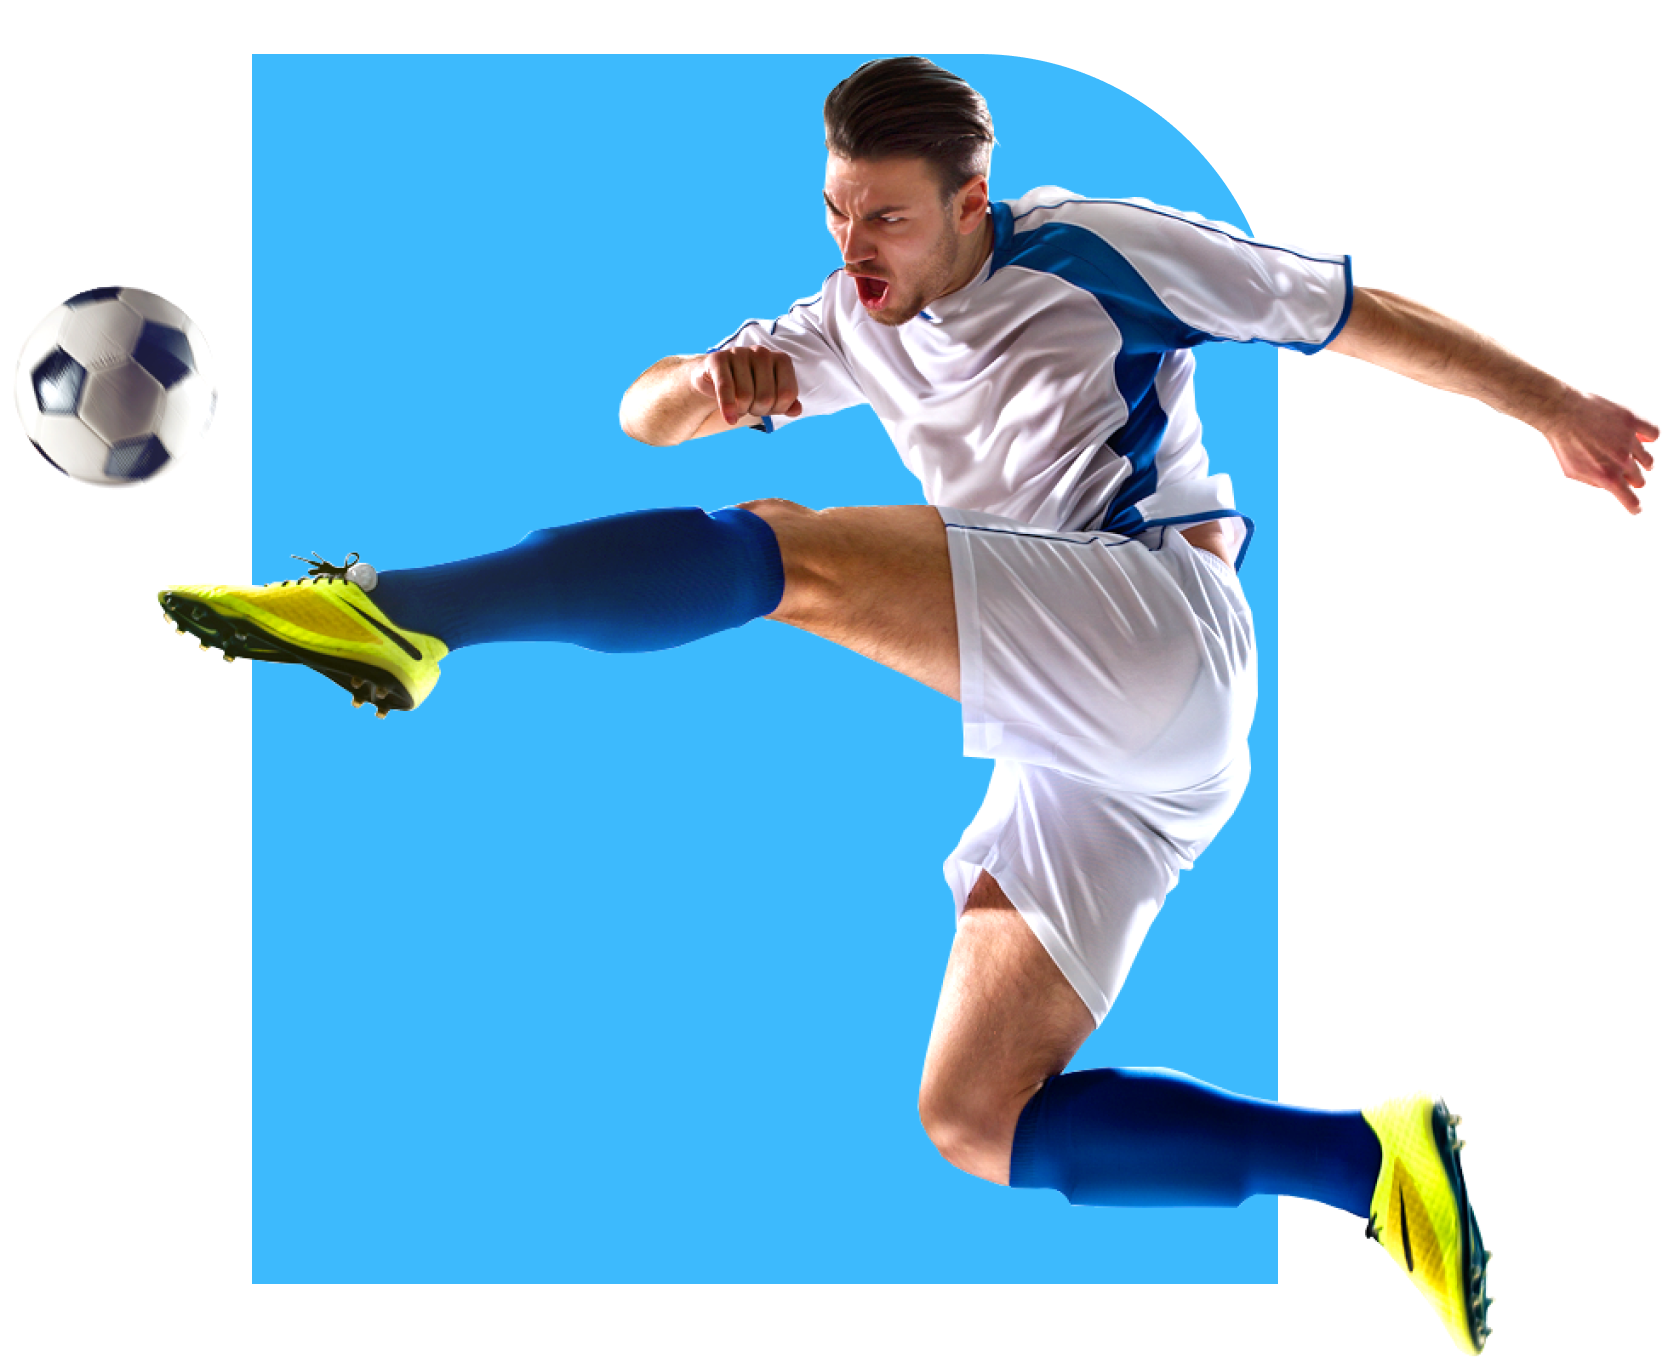
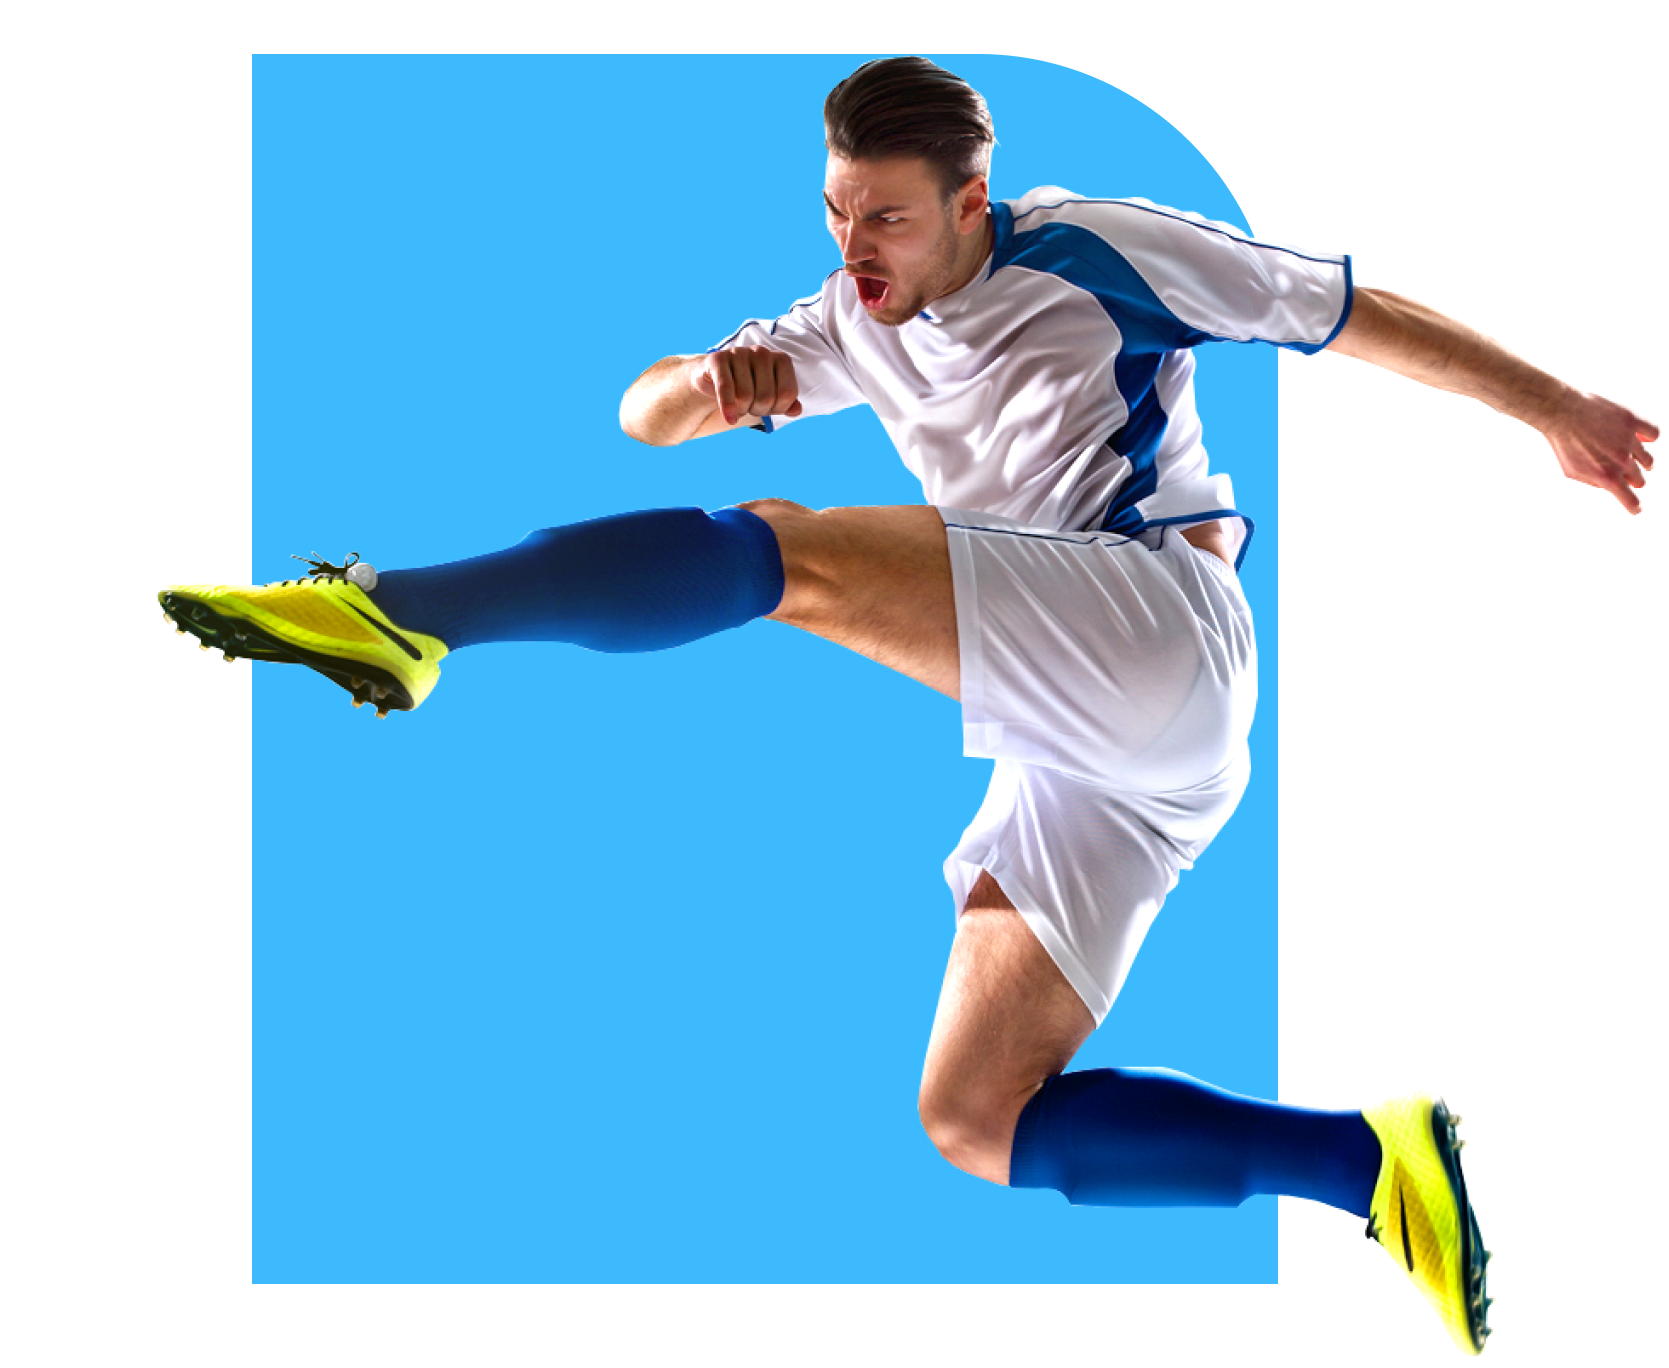
playe section

Changed region(s): [[0.0, 0.1842, 0.1246, 0.3684]]

diff --git a/index.html b/index.html
@@ -54,14 +54,199 @@
 
         <section id="banner">
                 <div class="banner-content">
-
-                </div>
+                    <h1 class="b-h1">
+                        Conmebol <br>
+                        Copa America <br>
+                        2021
+                    </h1>
+                    <button class="all-btn watch-btn">
+                        <a href="#">Watch Live <i class="fas fa-arrow-right"> </i> </a>
+                    </button>
+                </div> 
+                <div class="main-ani">
                 <div class="banner-img">
-                    
+                    <img src="images/banner.png" alt="">
                 </div>
+                
+                <div class="a-football">
+                    <img class="football" src="images/football.png" alt="">
+                </div>
+            </div>
         </section>
-
         <!-- Banner Section End -->
+
+        <!-- Players Gallery Sections -->
+        <section id="players">
+                <article class="player">
+                    <div class="player-img">
+                        <img src="images/players/player-1.png" alt="">
+                    </div>
+                    <div class="player-info">
+                        <h1 class="player-title">
+                            Neymar Jr
+                        </h1>
+                        <p class="player-deatil">
+                            Lorem ipsum dolor sit amet, consectetur adipiscing elit. Lacus, fermentum amet faucibus sed id nisi lectus at.
+                        </p>
+                    </div>
+                </article>
+
+                <article class="player">
+                    <div class="player-img">
+                        <img src="images/players/player-2.png" alt="">
+                    </div>
+                    <div class="player-info">
+                        <h1 class="player-title">
+                            Neymar Jr
+                        </h1>
+                        <p class="player-deatil">
+                            Lorem ipsum dolor sit amet, consectetur adipiscing elit. Lacus, fermentum amet faucibus sed id nisi lectus at.
+                        </p>
+                    </div>
+                </article>
+
+                <article class="player">
+                    <div class="player-img">
+                        <img src="images/players/player-3.png" alt="">
+                    </div>
+                    <div class="player-info">
+                        <h1 class="player-title">
+                            Neymar Jr
+                        </h1>
+                        <p class="player-deatil">
+                            Lorem ipsum dolor sit amet, consectetur adipiscing elit. Lacus, fermentum amet faucibus sed id nisi lectus at.
+                        </p>
+                    </div>
+                </article>
+
+                <article class="player">
+                    <div class="player-img">
+                        <img src="images/players/player-4.png" alt="">
+                    </div>
+                    <div class="player-info">
+                        <h1 class="player-title">
+                            Neymar Jr
+                        </h1>
+                        <p class="player-deatil">
+                            Lorem ipsum dolor sit amet, consectetur adipiscing elit. Lacus, fermentum amet faucibus sed id nisi lectus at.
+                        </p>
+                    </div>
+                </article>
+
+                <article class="player">
+                    <div class="player-img">
+                        <img src="images/players/player-5.png" alt="">
+                    </div>
+                    <div class="player-info">
+                        <h1 class="player-title">
+                            Neymar Jr
+                        </h1>
+                        <p class="player-deatil">
+                            Lorem ipsum dolor sit amet, consectetur adipiscing elit. Lacus, fermentum amet faucibus sed id nisi lectus at.
+                        </p>
+                    </div>
+                </article>
+
+                <article class="player">
+                    <div class="player-img">
+                        <img src="images/players/player-6.png" alt="">
+                    </div>
+                    <div class="player-info">
+                        <h1 class="player-title">
+                            Neymar Jr
+                        </h1>
+                        <p class="player-deatil">
+                            Lorem ipsum dolor sit amet, consectetur adipiscing elit. Lacus, fermentum amet faucibus sed id nisi lectus at.
+                        </p>
+                    </div>
+                </article>
+
+                <article class="player">
+                    <div class="player-img">
+                        <img src="images/players/player-7.png" alt="">
+                    </div>
+                    <div class="player-info">
+                        <h1 class="player-title">
+                            Neymar Jr
+                        </h1>
+                        <p class="player-deatil">
+                            Lorem ipsum dolor sit amet, consectetur adipiscing elit. Lacus, fermentum amet faucibus sed id nisi lectus at.
+                        </p>
+                    </div>
+                </article>
+
+                <article class="player">
+                    <div class="player-img">
+                        <img src="images/players/player-8.png" alt="">
+                    </div>
+                    <div class="player-info">
+                        <h1 class="player-title">
+                            Neymar Jr
+                        </h1>
+                        <p class="player-deatil">
+                            Lorem ipsum dolor sit amet, consectetur adipiscing elit. Lacus, fermentum amet faucibus sed id nisi lectus at.
+                        </p>
+                    </div>
+                </article>
+
+                <article class="player">
+                    <div class="player-img">
+                        <img src="images/players/player-9.png" alt="">
+                    </div>
+                    <div class="player-info">
+                        <h1 class="player-title">
+                            Neymar Jr
+                        </h1>
+                        <p class="player-deatil">
+                            Lorem ipsum dolor sit amet, consectetur adipiscing elit. Lacus, fermentum amet faucibus sed id nisi lectus at.
+                        </p>
+                    </div>
+                </article>
+
+                <article class="player">
+                    <div class="player-img">
+                        <img src="images/players/player-10.png" alt="">
+                    </div>
+                    <div class="player-info">
+                        <h1 class="player-title">
+                            Neymar Jr
+                        </h1>
+                        <p class="player-deatil">
+                            Lorem ipsum dolor sit amet, consectetur adipiscing elit. Lacus, fermentum amet faucibus sed id nisi lectus at.
+                        </p>
+                    </div>
+                </article>
+
+                <article class="player">
+                    <div class="player-img">
+                        <img src="images/players/player-11.png" alt="">
+                    </div>
+                    <div class="player-info">
+                        <h1 class="player-title">
+                            Neymar Jr
+                        </h1>
+                        <p class="player-deatil">
+                            Lorem ipsum dolor sit amet, consectetur adipiscing elit. Lacus, fermentum amet faucibus sed id nisi lectus at.
+                        </p>
+                    </div>
+                </article>
+
+                <article class="player">
+                    <div class="player-img">
+                        <img src="images/players/player-12.png" alt="">
+                    </div>
+                    <div class="player-info">
+                        <h1 class="player-title">
+                            Neymar Jr
+                        </h1>
+                        <p class="player-deatil">
+                            Lorem ipsum dolor sit amet, consectetur adipiscing elit. Lacus, fermentum amet faucibus sed id nisi lectus at.
+                        </p>
+                    </div>
+                </article>
+        </section>
+        <!-- Players Gallery Sections -->
+
     </main>
     <!-- Main END -->
     <footer></footer>

diff --git a/css/style.css b/css/style.css
@@ -68,9 +68,98 @@ nav ul li a {
 }
 
 /*========================
-   --Header Styles END--
+   --Banner Section Start--
    ========================*/
 
+#banner{
+    background-color: #2D25A0;
+    display: flex;
+    justify-content: space-between;
+}
+.banner-content{
+    width: 50%;
+    padding-top: 20px;
+    padding-left: 195px;
+    padding-bottom: 20px;
+}
+.banner-content .b-h1{
+    color: white;
+    font-size: 64px;
+    font-weight: 700;
+    line-height: 80px;
+}
+.watch-btn{
+    width: 156px;
+}
+
+.banner-img{
+    width: 50%;
+}
+
+.banner-img img{
+    width: 556px;
+    padding: 70px 150px;
+}
+
+@keyframes ball-kick {
+    from {top: -410px;}
+    to {left: -560px;
+    transform: scale(0.1);
+    background-image: url(../images/goal.png);
+    }
+}
+.main-ani .a-football >img{
+    width: 80px;
+    height: 80px;
+    position: relative;
+    top: -420px;
+    left: 150px;
+}
+
+.main-ani:hover .football{
+    animation: ball-kick 0.9s ease-in 0.5ms 1 ;
+}
    /*========================
-   --Header Styles END--
+   --Banner Section End--
+   ========================*/
+
+
+   /*========================
+   --Player Section Start--
+   ========================*/
+
+#players{
+    margin:100px 180px 0px 180px;
+    display: flex;
+    display: grid;
+    grid-template-columns: repeat(3, 1fr);
+    column-gap: 30px;
+    
+}
+.player{
+    background: #FFFFFF;
+    box-shadow: 0px 0px 40px rgba(0, 0, 0, 0.15);
+    padding: 20px;
+    margin-top: 27px;
+    transition: 0.2s;
+}
+.player:hover{
+    
+    transform: scale(0.9);
+}
+.player-title{
+    font-size: 28px;
+}
+.player-deatil{
+    font-size: 16px;
+    line-height: 26px;
+    
+}
+.player-img img{
+    width: 100%;
+   
+}
+
+    /*========================
+   --Player Section End--
    ========================*/
